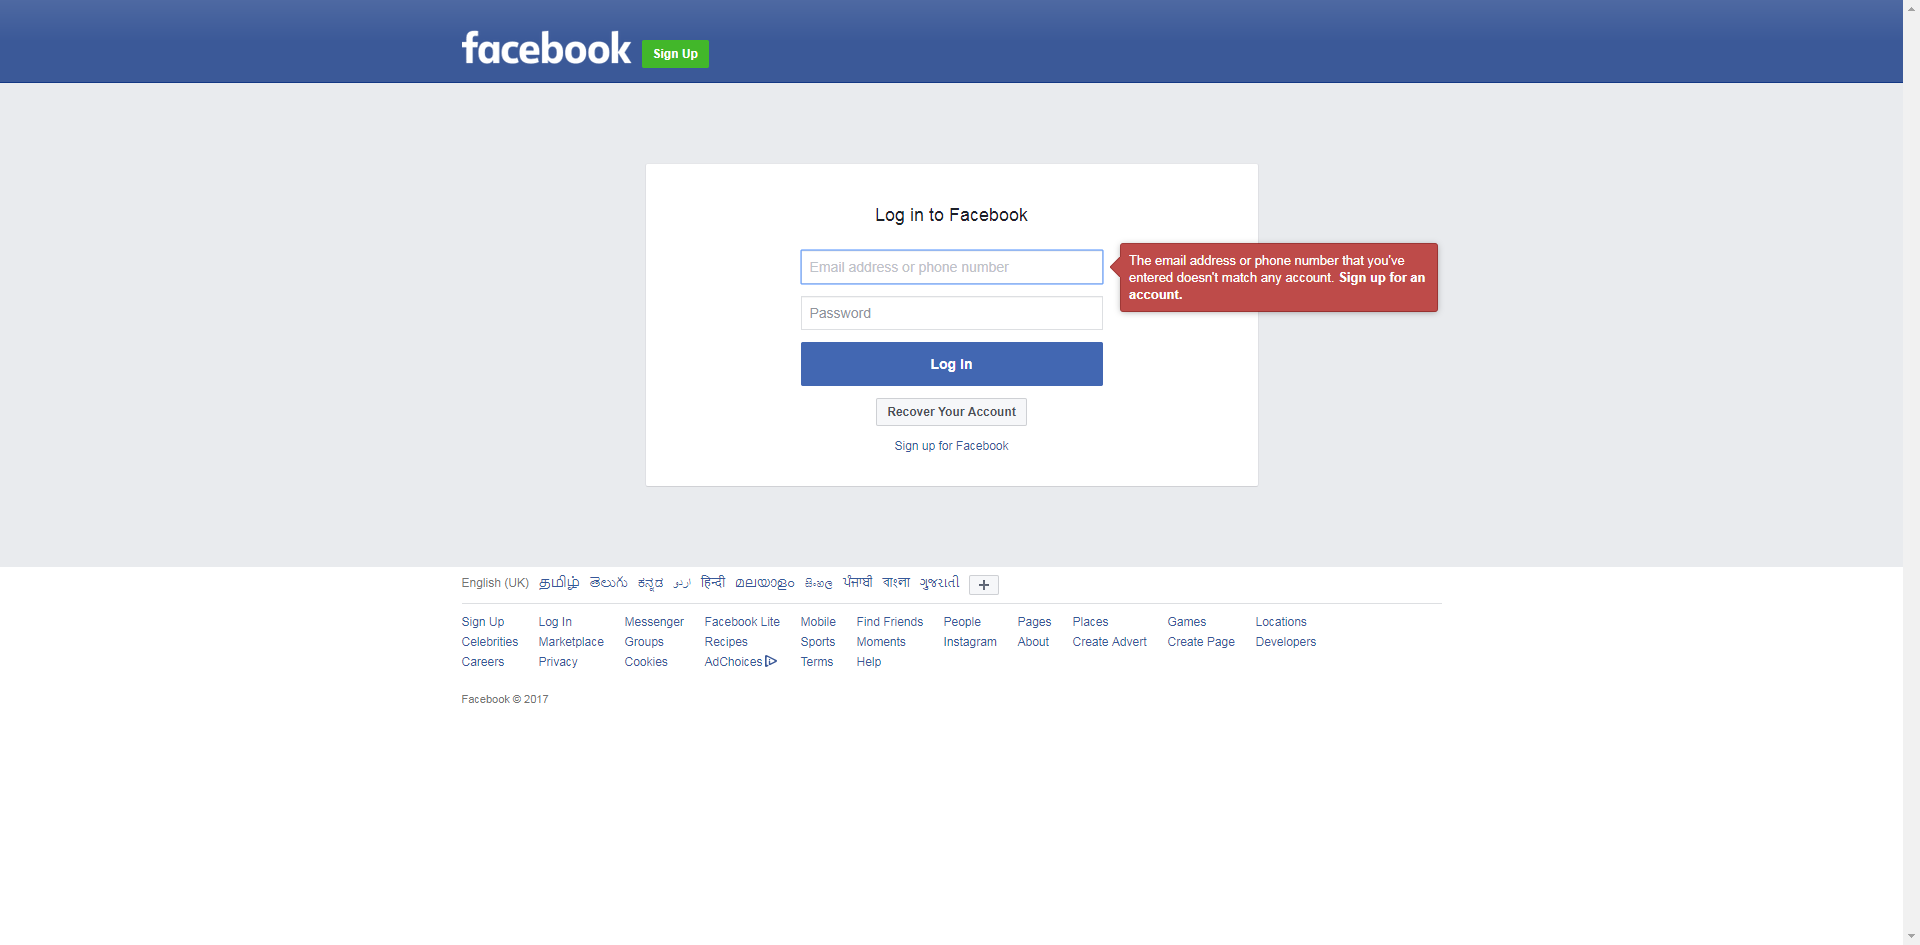
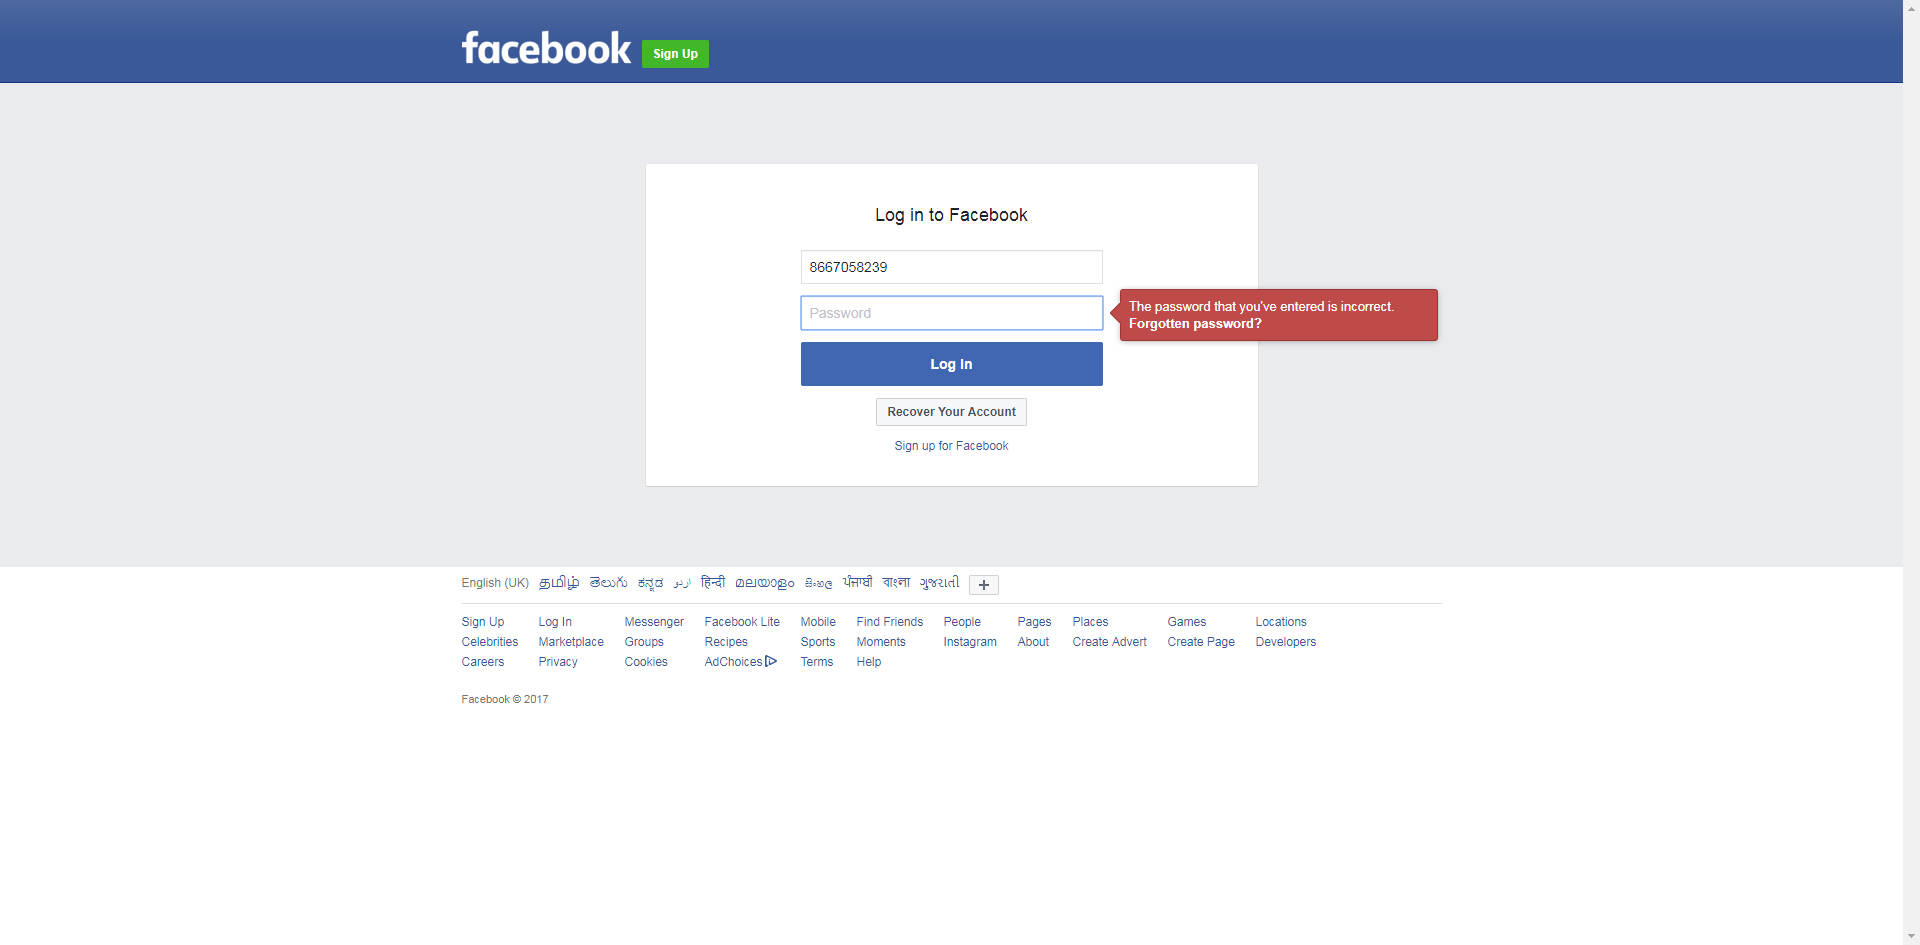
combined login and invalid login tests into login class

Changed region(s): [[0.5625, 0.2455, 0.75, 0.3683], [0.4062, 0.2762, 0.5312, 0.3376]]

diff --git a/cybertron/output/Report.html b/cybertron/output/Report.html
@@ -53,7 +53,7 @@
 					<i class='mdi-hardware-desktop-windows'></i>
 				</li>
 				<li>
-					<span class='suite-started-time'>2017-08-29 18:48:00</span>
+					<span class='suite-started-time'>2017-08-29 19:52:36</span>
 				</li>
 				<li>
 					<span>v2.41.1</span>
@@ -83,25 +83,25 @@
 					<div class='col l2 m4 s12'>
 						<div class='card suite-total-time-current'> 
 							<span class='panel-name'>Total Time Taken (Current Run)</span> 
-							<span class='suite-total-time-current-value panel-lead'>0h 0m 22s+630ms</span> 
+							<span class='suite-total-time-current-value panel-lead'>0h 0m 25s+646ms</span> 
 						</div> 
 					</div>
 					<div class='col l2 m4 s12'>
 						<div class='card suite-total-time-overall'> 
 							<span class='panel-name'>Total Time Taken (Overall)</span> 
-							<span class='suite-total-time-overall-value panel-lead'>0h 0m 22s+630ms</span> 
+							<span class='suite-total-time-overall-value panel-lead'>0h 0m 25s+646ms</span> 
 						</div> 
 					</div>
 					<div class='col l2 m4 s6 suite-start-time'>
 						<div class='card accent green-accent'> 
 							<span class='panel-name'>Start</span> 
-							<span class='panel-lead suite-started-time'>2017-08-29 18:47:38</span> 
+							<span class='panel-lead suite-started-time'>2017-08-29 19:52:10</span> 
 						</div> 
 					</div>
 					<div class='col l2 m4 s6 suite-end-time'>
 						<div class='card accent pink-accent'> 
 							<span class='panel-name'>End</span> 
-							<span class='panel-lead suite-ended-time'>2017-08-29 18:48:00</span> 
+							<span class='panel-lead suite-ended-time'>2017-08-29 19:52:36</span> 
 						</div> 
 					</div>
 				</div>
@@ -168,7 +168,7 @@
 								<tbody>
 										<tr>
 											<td>User Name</td>
-											<td>vdevishri</td>
+											<td>djagadish</td>
 										</tr>
 										<tr>
 											<td>OS</td>
@@ -180,7 +180,7 @@
 										</tr>
 										<tr>
 											<td>Host Name</td>
-											<td>VDEVISHRI-T440</td>
+											<td>DJAGADISH-T450</td>
 										</tr>
 								</tbody>
 							</table>
@@ -237,7 +237,7 @@
 						<div class='card-panel no-padding-h no-padding-v no-margin-v'>
 							<div class='wrapper'>
 								<ul id='test-collection' class='test-collection'>
-										<li class='collection-item test displayed active pass ' extentid='8d171947-e2d2-4bf6-83c9-5ac29a82e7cf'>
+										<li class='collection-item test displayed active pass ' extentid='aa8db087-05b6-4d2d-b1a3-eeda7df0a2f1'>
 											<div class='test-head'>
 												<span class='test-name'>Report </span>
 												<span class='test-status label right outline capitalize pass'>pass</span>
@@ -245,9 +245,9 @@
 											</div>
 											<div class='test-body'>
 												<div class='test-info'>
-													<span title='Test started time' alt='Test started time' class='test-started-time label green lighten-1 text-white'>2017-08-29 18:47:38</span>
-													<span title='Test ended time' alt='Test ended time' class='test-ended-time label red lighten-1 text-white'>2017-08-29 18:48:00</span>
-													<span title='Time taken to finish' alt='Time taken to finish' class='test-time-taken label blue-grey lighten-3 text-white'>0h 0m 22s+272ms</span>
+													<span title='Test started time' alt='Test started time' class='test-started-time label green lighten-1 text-white'>2017-08-29 19:52:10</span>
+													<span title='Test ended time' alt='Test ended time' class='test-ended-time label red lighten-1 text-white'>2017-08-29 19:52:35</span>
+													<span title='Time taken to finish' alt='Time taken to finish' class='test-time-taken label blue-grey lighten-3 text-white'>0h 0m 25s+298ms</span>
 												</div>
 												<div class='test-desc'></div>
 												<div class='test-attributes'>
@@ -264,58 +264,68 @@
 														<tbody>
 																<tr>
 																	<td class='status pass' title='pass' alt='pass'><i class='mdi-action-check-circle'></i></td>
-																	<td class='timestamp'>18:47:46</td>
+																	<td class='timestamp'>19:52:18</td>
 																	<td class='step-details'>The browser:chrome launched successfully</td>
 																</tr>
 																<tr>
 																	<td class='status info' title='info' alt='info'><i class='mdi-action-info-outline'></i></td>
-																	<td class='timestamp'>18:47:46</td>
+																	<td class='timestamp'>19:52:18</td>
 																	<td class='step-details'>Started Executing the class com.athena.cybertron.tests.LoginTest</td>
 																</tr>
 																<tr>
 																	<td class='status pass' title='pass' alt='pass'><i class='mdi-action-check-circle'></i></td>
-																	<td class='timestamp'>18:47:46</td>
+																	<td class='timestamp'>19:52:18</td>
 																	<td class='step-details'>The data: 8667058239 entered successfully in field :email</td>
 																</tr>
 																<tr>
 																	<td class='status pass' title='pass' alt='pass'><i class='mdi-action-check-circle'></i></td>
-																	<td class='timestamp'>18:47:47</td>
+																	<td class='timestamp'>19:52:19</td>
 																	<td class='step-details'>The data: facebook@123 entered successfully in field :pass</td>
 																</tr>
 																<tr>
 																	<td class='status info' title='info' alt='info'><i class='mdi-action-info-outline'></i></td>
-																	<td class='timestamp'>18:47:50</td>
+																	<td class='timestamp'>19:52:24</td>
 																	<td class='step-details'>Completed Executing the class com.athena.cybertron.tests.LoginTest</td>
 																</tr>
 																<tr>
 																	<td class='status pass' title='pass' alt='pass'><i class='mdi-action-check-circle'></i></td>
-																	<td class='timestamp'>18:47:58</td>
+																	<td class='timestamp'>19:52:25</td>
+																	<td class='step-details'>./output/login on [LoginTest passed=0 failed=0 skipped=0].png</td>
+																</tr>
+																<tr>
+																	<td class='status pass' title='pass' alt='pass'><i class='mdi-action-check-circle'></i></td>
+																	<td class='timestamp'>19:52:32</td>
 																	<td class='step-details'>The browser:chrome launched successfully</td>
 																</tr>
 																<tr>
 																	<td class='status info' title='info' alt='info'><i class='mdi-action-info-outline'></i></td>
-																	<td class='timestamp'>18:47:58</td>
-																	<td class='step-details'>Started Executing the class com.athena.cybertron.tests.InvalidLoginTest</td>
+																	<td class='timestamp'>19:52:32</td>
+																	<td class='step-details'>Started Executing the class com.athena.cybertron.tests.LoginTest</td>
 																</tr>
 																<tr>
 																	<td class='status pass' title='pass' alt='pass'><i class='mdi-action-check-circle'></i></td>
-																	<td class='timestamp'>18:47:58</td>
+																	<td class='timestamp'>19:52:32</td>
 																	<td class='step-details'>The data: 8667058239 entered successfully in field :email</td>
 																</tr>
 																<tr>
 																	<td class='status pass' title='pass' alt='pass'><i class='mdi-action-check-circle'></i></td>
-																	<td class='timestamp'>18:47:58</td>
-																	<td class='step-details'>The data: 123 entered successfully in field :pass</td>
+																	<td class='timestamp'>19:52:33</td>
+																	<td class='step-details'>The data: 1234 entered successfully in field :pass</td>
 																</tr>
 																<tr>
 																	<td class='status pass' title='pass' alt='pass'><i class='mdi-action-check-circle'></i></td>
-																	<td class='timestamp'>18:47:59</td>
+																	<td class='timestamp'>19:52:34</td>
 																	<td class='step-details'>The text: The password that you've entered is incorrect. Forgotten password? matches with the value :The password that you've entered is incorrect</td>
 																</tr>
 																<tr>
 																	<td class='status info' title='info' alt='info'><i class='mdi-action-info-outline'></i></td>
-																	<td class='timestamp'>18:47:59</td>
-																	<td class='step-details'>Completed Executing the class com.athena.cybertron.tests.InvalidLoginTest</td>
+																	<td class='timestamp'>19:52:34</td>
+																	<td class='step-details'>Completed Executing the class com.athena.cybertron.tests.LoginTest</td>
+																</tr>
+																<tr>
+																	<td class='status pass' title='pass' alt='pass'><i class='mdi-action-check-circle'></i></td>
+																	<td class='timestamp'>19:52:35</td>
+																	<td class='step-details'>./output/login on [LoginTest passed=0 failed=0 skipped=0].png</td>
 																</tr>
 														</tbody>
 													</table>

diff --git a/cybertron/src/main/java/com/athena/cybertron/utils/ExcelReader.java b/cybertron/src/main/java/com/athena/cybertron/utils/ExcelReader.java
@@ -10,19 +10,14 @@ import org.apache.poi.xssf.usermodel.XSSFCell;
 import org.apache.poi.xssf.usermodel.XSSFSheet;
 import org.apache.poi.xssf.usermodel.XSSFWorkbook;
 
-
-
 public class ExcelReader {
-	// static String src;
 	static XSSFWorkbook workbook;
 	static XSSFSheet sheet;
 
 	public static void getWorkBook(String dataSheetName) {
 
 		try {
-//			loadConfig();
-//			FileInputStream file = new FileInputStream(new File("./data/" + prop.getProperty("loginFileName")));
-			FileInputStream fis = new FileInputStream(new File("./input/"+dataSheetName+".xlsx"));
+			FileInputStream fis = new FileInputStream(new File("./input/" + dataSheetName + ".xlsx"));
 			workbook = new XSSFWorkbook(fis);
 		} catch (Exception e) {
 			System.out.println(e.getMessage());
@@ -30,18 +25,13 @@ public class ExcelReader {
 
 	}
 
-	
 	public static String[][] getExcelSheetData(String fileName, String sheetName) {
-		
+
 		getWorkBook(fileName);
 		sheet = workbook.getSheet(sheetName);
 		return getData();
 	}
 
-	/*
-	 * public String[][] getExcelSheetData(int sheetindex) { getWorkBook(); sheet =
-	 * workbook.getSheetAt(sheetindex); return getData(); }
-	 */
 	public static String[][] getData() {
 		int lastRowNum = sheet.getLastRowNum();
 		String[][] data = new String[lastRowNum + 1][];
@@ -57,10 +47,11 @@ public class ExcelReader {
 		String excelData = "";
 		int lastCellNum = sheet.getRow(rowIndex).getLastCellNum();
 		for (int col = 0; col < lastCellNum; col++) {
-			if (sheet.getRow(rowIndex).getCell(col).getCellType() == XSSFCell.CELL_TYPE_STRING)
+			if (sheet.getRow(rowIndex).getCell(col).getCellType() == XSSFCell.CELL_TYPE_BLANK) {
+				excelData = excelData + sheet.getRow(rowIndex).getCell(col).getStringCellValue() + " ";
+			} else if (sheet.getRow(rowIndex).getCell(col).getCellType() == XSSFCell.CELL_TYPE_STRING) {
 				excelData = excelData + sheet.getRow(rowIndex).getCell(col).getStringCellValue() + "  ";
-
-			else if (sheet.getRow(rowIndex).getCell(col).getCellType() == XSSFCell.CELL_TYPE_NUMERIC) {
+			} else if (sheet.getRow(rowIndex).getCell(col).getCellType() == XSSFCell.CELL_TYPE_NUMERIC) {
 				if (DateUtil.isCellDateFormatted(sheet.getRow(rowIndex).getCell(col))) {
 					SimpleDateFormat sdf = new SimpleDateFormat("MM/dd/yyyy");
 					excelData = excelData + sdf.format(sheet.getRow(rowIndex).getCell(col).getDateCellValue()) + "  ";
@@ -68,9 +59,9 @@ public class ExcelReader {
 					excelData = excelData + new DataFormatter().formatCellValue(sheet.getRow(rowIndex).getCell(col))
 							+ "  ";
 				}
-			} else if (sheet.getRow(rowIndex).getCell(col).getCellType() == XSSFCell.CELL_TYPE_BOOLEAN)
+			} else if (sheet.getRow(rowIndex).getCell(col).getCellType() == XSSFCell.CELL_TYPE_BOOLEAN) {
 				excelData = excelData + sheet.getRow(rowIndex).getCell(col).getBooleanCellValue() + "  ";
-
+			}
 		}
 		String[] excelDataArray = excelData.split("  ");
 		return excelDataArray;

diff --git a/cybertron/src/main/java/com/athena/cybertron/wrappers/FacebookWrapper.java b/cybertron/src/main/java/com/athena/cybertron/wrappers/FacebookWrapper.java
@@ -14,7 +14,7 @@ import com.athena.cybertron.utils.ExcelReader;
 
 public class FacebookWrapper extends CommonMethods {
 	public Properties faceBookProp;
-	public static String ExcelFileName,SheetName;
+	public static String ExcelFileName, SheetName;
 
 	@BeforeMethod
 	public void login() {
@@ -32,19 +32,16 @@ public class FacebookWrapper extends CommonMethods {
 		try {
 			faceBookProp.load(new FileInputStream(new File(propPath)));
 		} catch (FileNotFoundException e) {
-			// TODO Auto-generated catch block
 			e.printStackTrace();
 		} catch (IOException e) {
-			// TODO Auto-generated catch block
 			e.printStackTrace();
 		}
 		return faceBookProp;
 	}
-	
-	@DataProvider(name="xlData")
-	public Object[][] getData(){
-		
-		return ExcelReader.getExcelSheetData(ExcelFileName,SheetName);		
+
+	@DataProvider(name = "xlData")
+	public Object[][] getData() {
+		return ExcelReader.getExcelSheetData(ExcelFileName, SheetName);
 	}
 
 }

diff --git a/cybertron/src/test/java/com/athena/cybertron/tests/LoginTest.java b/cybertron/src/test/java/com/athena/cybertron/tests/LoginTest.java
@@ -11,11 +11,14 @@ public class LoginTest extends FacebookWrapper {
 		SheetName = "login";
 	}
 	LoginPage loginPage = new LoginPage();
+
 	@Test(dataProvider = "xlData", dataProviderClass = FacebookWrapper.class)
-	public void login(String uname, String pwd) {
+	public void login(String uname, String pwd, String type, String expected) {
 		reportStep("Started Executing the class " + this.getClass().getName(), "INFO");
 		loginPage.login(uname, pwd);
-		
-		reportStep("Completed Executing the class " +this.getClass().getName(), "INFO");
+		if (type.equalsIgnoreCase("NEGATIVE")) {
+			loginPage.verifyTextContainsByXpath(loginPage.invalidLoginPageProp.getProperty("loginError"), expected);
+		}
+		reportStep("Completed Executing the class " + this.getClass().getName(), "INFO");
 	}
 }

diff --git a/cybertron/src/main/java/com/athena/cybertron/wrappers/CommonMethods.java b/cybertron/src/main/java/com/athena/cybertron/wrappers/CommonMethods.java
@@ -33,10 +33,8 @@ public class CommonMethods extends Reporter implements Iwrappers {
 		try {
 			prop.load(new FileInputStream(new File("./src/main/java/config.properties")));
 		} catch (FileNotFoundException e) {
-			// TODO Auto-generated catch block
 			e.printStackTrace();
 		} catch (IOException e) {
-			// TODO Auto-generated catch block
 			e.printStackTrace();
 		}
 
@@ -76,8 +74,6 @@ public class CommonMethods extends Reporter implements Iwrappers {
 			DesiredCapabilities dc = new DesiredCapabilities();
 			dc.setBrowserName(browser);
 			dc.setPlatform(Platform.WINDOWS);
-			// prop.load(new FileInputStream(new
-			// File("frametest/src/main/java/config.properties")));
 
 			// this is for grid run
 			if (bRemote)

diff --git a/cybertron/src/test/java/com/athena/cybertron/pages/LoginPage.java b/cybertron/src/test/java/com/athena/cybertron/pages/LoginPage.java
@@ -6,6 +6,7 @@ import com.athena.cybertron.wrappers.FacebookWrapper;
 
 public class LoginPage extends FacebookWrapper {
 	public Properties loginPageProp = loadProp("./pageObjects/loginPage.properties");
+	public Properties invalidLoginPageProp = loadProp("./pageObjects/invalidLoginPage.properties");
 
 	public void login(String uname, String pwd) {
 		enterById(loginPageProp.getProperty("emailID"), uname);
